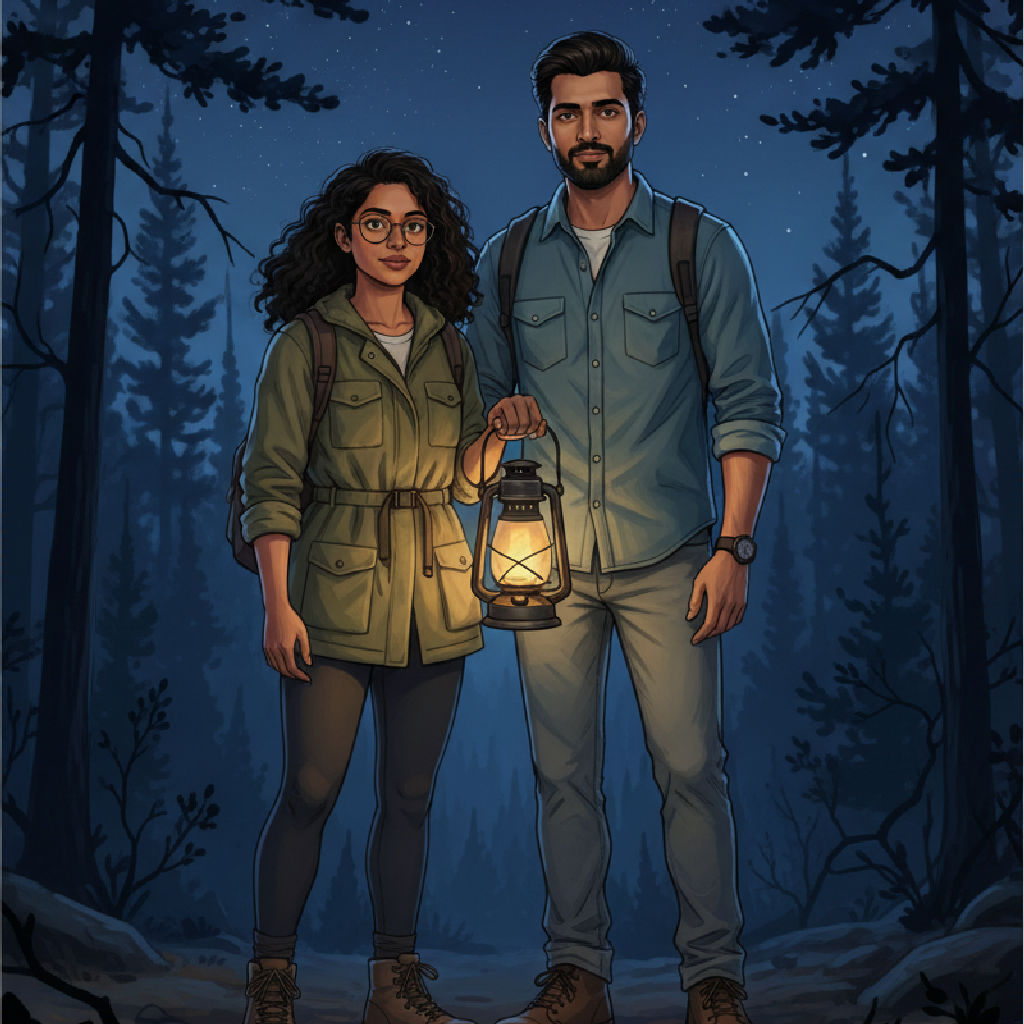
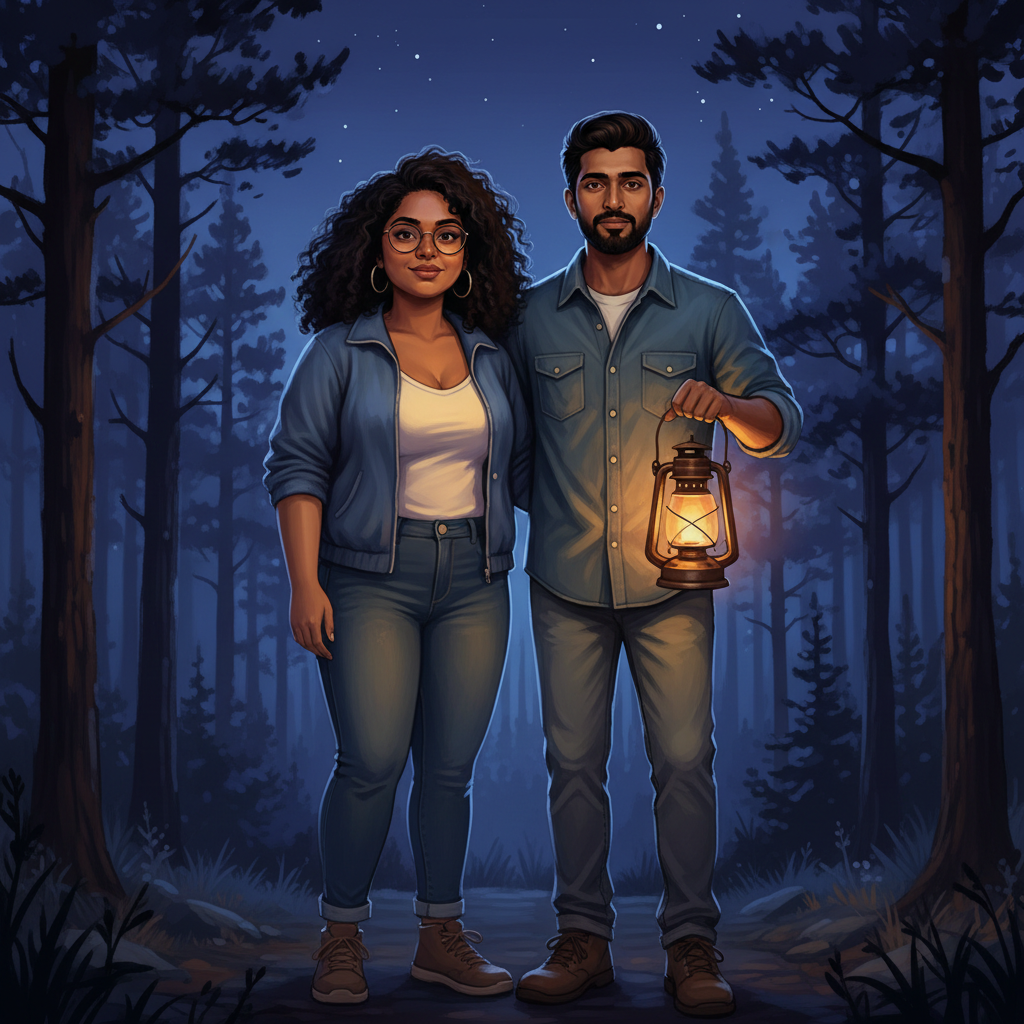
Drop the AI badge, redraw Raya, unbolden Sign in
THE BADGE IS GONE. "✦ WRITTEN BY KATHA AI" sat beside "Where does it begin?"
and was the brightest thing on that header line -- the product explaining
itself, louder than the question the reader is being asked. The three cards
are self-evidently Katha's suggestions; that is what the screen is showing.

RAYA IS REDRAWN. She read as a child standing next to Praz: asked for their
heights separately, the model drew her at roughly two thirds of his. The cover
prompt states it as a relationship now -- her eyes reach about his eyebrows,
both adults -- which is the only form the model acts on. She is taller and
fuller-figured, and her outfit is a white sleeveless top, a short blue jacket
and jeans.

HER APPEARANCE LINE CHANGED WITH HER, and it had to. That line is typed on
screen 1 AND is the exact string the portrait prompt was given, so the screen
shows a field and then shows what Katha drew from it. Letting the picture
change without the sentence would make the screen lie about the product, which
is the one thing this slide cannot do. `generate-intro-characters.ts` and
`KathaOnboarding.jsx` carry the identical string.

The script gained a `bottomTouch` check while redrawing her: the first pass
came back cropped at the knees, and a knee crop is invisible to `frameScore`,
which averages all four edges and loses one bad edge among three clean ones.
Same lesson as the painted border and the cover's safe zone -- the prompt asks,
the check enforces.
[…]

diff --git a/backend/scripts/generate-intro-characters.ts b/backend/scripts/generate-intro-characters.ts
@@ -84,7 +84,7 @@ const CAST = [
   {
     slug: "raya",
     appearance:
-      "An Indian woman in her twenties with curly black hair and round glasses. Athletic build, olive field jacket, worn hiking boots.",
+      "A tall, curvy Indian woman in her twenties with curly black hair and round glasses. White sleeveless top, short blue jacket, jeans.",
   },
   {
     slug: "praz",
@@ -104,6 +104,10 @@ const COVER_PROMPT = [
   "Book cover illustration for an adventure story.",
   `Two hikers together on a forest trail at night: ${CAST[0].appearance} ${CAST[1].appearance}`,
   "They stand close together facing the viewer in a still, dark pine forest under a deep blue night sky.",
+  // STATED AS A RELATIONSHIP, not as two separate heights. Asked for
+  // individually the model drew her at roughly two thirds of his height, which
+  // read as an adult and a child rather than as two friends the same age.
+  "Both are adults in their twenties and thirties and they are close to the same height: her eyes reach about his eyebrows. She is NOT a child and NOT noticeably shorter than him.",
   "One of them holds a warm lantern that lights both their faces; everything beyond falls into cool darkness.",
   "Painterly book-illustration style, atmospheric, deep shadows with warm lamplight.",
   // THE FRAMING IS THE WHOLE POINT OF THIS PROMPT, not a nicety. One source
@@ -113,7 +117,7 @@ const COVER_PROMPT = [
   // SAFE_ZONE_CLAUSE). A wide establishing shot with two small figures low in
   // the frame survives none of those crops — the first draft of this cover was
   // exactly that, and the Home tile showed nothing but empty sky.
-  "KNEE-UP framing: the two figures are large and fill the middle of the frame, and both faces are clearly visible and lit. The forest is background only.",
+  "KNEE-UP framing: the two figures are cut off at the knees by the bottom of the frame, they fill most of the image height, and both faces are large, clearly visible and lit. The forest is background only. Do NOT show their feet or draw them small in a wide landscape.",
   // SAFE_ZONE_CLAUSE, restated from `supabase/functions/_shared/cover-prompts.ts`
   // (it is a module-private const there; copied rather than exported so a
   // script does not widen a shared backend API). Verbatim except that it is
@@ -146,7 +150,11 @@ function portraitPrompt(appearance: string): string {
     "The background is one flat, even, light warm grey colour (#E4DCD0) with no gradient, no texture and no scenery.",
     "The image must contain NO text, NO titles, NO words, NO letters, NO watermarks.",
     "No border, no frame, no decorative edge, no vignette; the illustration runs to every edge.",
-    "Full-body portrait orientation, subject centered in frame, head to feet fully inside the frame, high quality.",
+    "Full-body portrait orientation, subject centered in frame, high quality.",
+  // Repeated at the end, in the terms the failure actually takes: the model
+  // returns a knee crop, not a headless figure, so the instruction names the
+  // shoes and the space under them rather than saying "full body" again.
+  "The WHOLE body is visible from the top of the head down to the shoes, with empty background visible below the shoes. Do not crop at the knees, thighs or waist.",
   ].join(" ");
 }
 
@@ -260,6 +268,26 @@ function frameScore(image: Image): number {
     check(image.width - 1, y);
   }
   return edge ? foreign / edge : 0;
+}
+
+/**
+ * How much of the bottom edge the subject is standing on.
+ *
+ * A portrait that is cropped at the knees scores high here, because the legs
+ * run off the bottom of the frame; a full-body one scores near zero, because
+ * there is ground under the feet. The prompt asks for head to feet in so many
+ * words and the model still returns a knee crop often enough to need checking
+ * -- the same lesson as the border and the cover's safe zone. `frameScore`
+ * does not catch it: it averages all four edges, so one bad edge out of four
+ * disappears into three clean ones.
+ */
+function bottomTouch(image: Image): number {
+  let foreign = 0;
+  const y = image.height - 1;
+  for (let x = 0; x < image.width; x++) {
+    if (!nearGround(image.getPixelAt(x + 1, y + 1))) foreign++;
+  }
+  return foreign / image.width;
 }
 
 /**
@@ -399,6 +427,12 @@ async function drawCharacter(
           `border painted into the image (edge score ${score.toFixed(2)})`,
         );
       }
+      const feet = bottomTouch(image);
+      if (feet > 0.15 && attempt < MAX_ATTEMPTS) {
+        throw new Error(
+          `cropped before the feet (bottom edge ${(feet * 100).toFixed(0)}% subject)`,
+        );
+      }
 
       await Deno.writeFile(
         new URL(`${member.slug}-portrait.png`, OUT_DIR),
@@ -412,7 +446,7 @@ async function drawCharacter(
       console.log(
         `[ok] ${member.slug} ${source} -> ${PORTRAIT_W}x${PORTRAIT_H} (edge ${
           score.toFixed(2)
-        }) + cutout`,
+        }, feet ${bottomTouch(image).toFixed(2)}) + cutout`,
       );
       return true;
     } catch (error) {

diff --git a/expo/src/screens/KathaOnboarding.jsx b/expo/src/screens/KathaOnboarding.jsx
@@ -161,7 +161,7 @@ const SLIDE_NAMES = ['character', 'story', 'read'];
  * lying about the product, so they are regenerated together or not at all.
  */
 const RAYA_APPEARANCE =
-  'An Indian woman in her twenties with curly black hair and round glasses. Athletic build, olive field jacket, worn hiking boots.';
+  'A tall, curvy Indian woman in her twenties with curly black hair and round glasses. White sleeveless top, short blue jacket, jeans.';
 const APPEARANCE_MAX = 300;
 
 const STORY_IDEA =
@@ -857,9 +857,13 @@ function Directions({ t, inside }) {
 
   return (
     <Animated.View style={[inside ? styles.directionsInside : styles.directionsBelow, container]}>
+      {/* No "WRITTEN BY KATHA AI" badge. The three cards are self-evidently
+          Katha's suggestions -- that is what the screen is showing -- and
+          labelling them was the product explaining itself instead of working.
+          It also put a second, brighter thing on the header line than the
+          question the reader is actually being asked. */}
       <View style={styles.directionsHeader}>
         <Text style={styles.directionsTitle} numberOfLines={1}>Where does it begin?</Text>
-        <View style={styles.aiBadge}><Text style={styles.aiBadgeText} numberOfLines={1}>✦ WRITTEN BY KATHA AI</Text></View>
       </View>
 
       {DIRECTIONS.map((prompt, i) => (
@@ -1271,10 +1275,8 @@ const styles = StyleSheet.create({
 
   directionsInside: { ...StyleSheet.absoluteFillObject, padding: 16 },
   directionsBelow: { position: 'absolute', top: 204, left: 28, right: 28 },
-  directionsHeader: { flexDirection: 'row', alignItems: 'center', justifyContent: 'space-between', gap: 8, marginBottom: 10 },
-  directionsTitle: { fontFamily: F.hankenBold, fontWeight: '700', fontSize: 16, color: C.ink, flexShrink: 1 },
-  aiBadge: { backgroundColor: C.chipPeach, borderRadius: 999, paddingHorizontal: 8, paddingVertical: 4 },
-  aiBadgeText: { fontFamily: F.hankenXbold, fontWeight: '800', fontSize: 10, letterSpacing: 0.4, color: C.orangeDeep },
+  directionsHeader: { marginBottom: 10 },
+  directionsTitle: { fontFamily: F.hankenBold, fontWeight: '700', fontSize: 16, color: C.ink },
   directionRow: { flexDirection: 'row', alignItems: 'flex-start', gap: 10, borderWidth: 1.5, borderRadius: 14, paddingVertical: 10, paddingHorizontal: 13, marginBottom: 8 },
   directionNumber: { width: 22, height: 22, borderRadius: 11, alignItems: 'center', justifyContent: 'center' },
   directionNumberText: { fontFamily: F.hankenBold, fontWeight: '700', fontSize: 11 },
@@ -1347,5 +1349,8 @@ const styles = StyleSheet.create({
   bar: { width: 2.5, borderRadius: 2, backgroundColor: C.orangeDeep },
 
   signInTop: { position: 'absolute', top: 40, right: 24, zIndex: 19 },
-  signInTopText: { fontSize: 15, fontWeight: '800', color: C.orange },
+  // 13.5/700, as it was before this rewrite. The handoff spec asked for
+  // 15/800; that is heavier than the same link anywhere else in onboarding and
+  // it pulled the eye to the one control on the screen we do NOT want pressed.
+  signInTopText: { fontSize: 13.5, fontWeight: '700', color: C.orange },
 });
